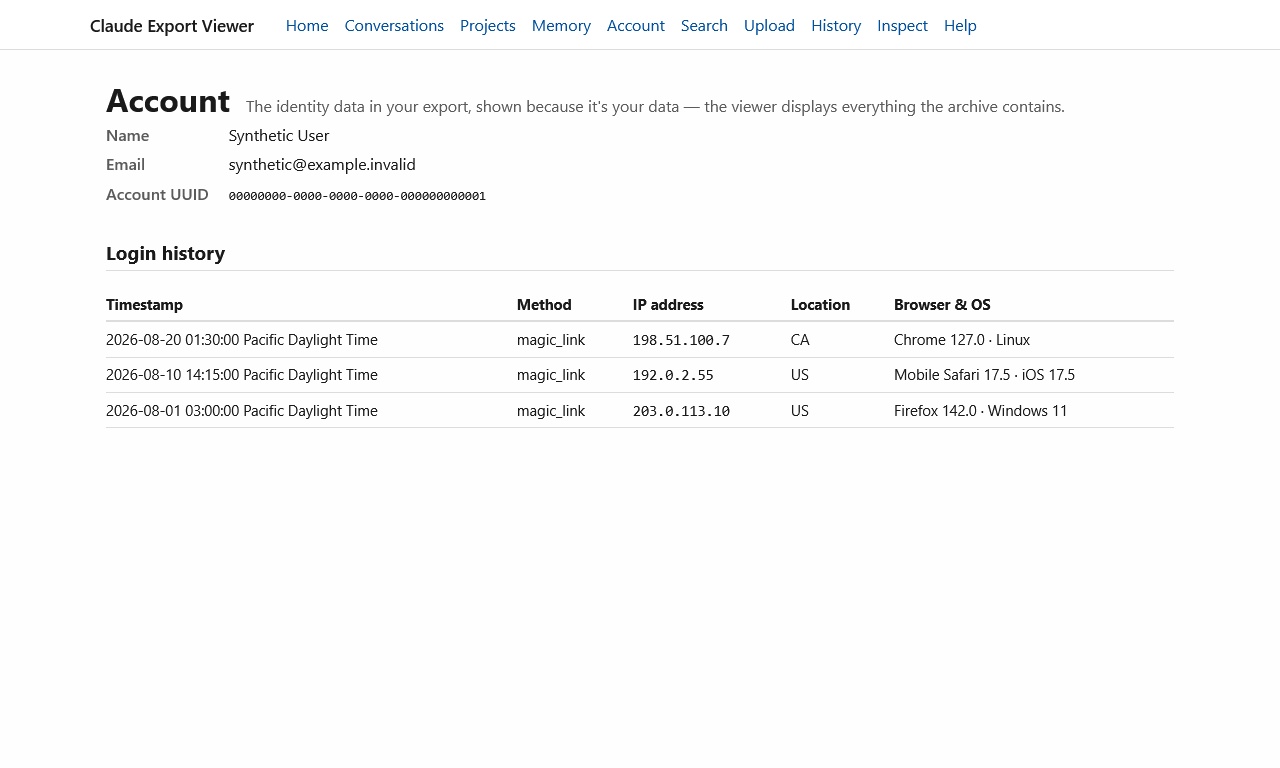
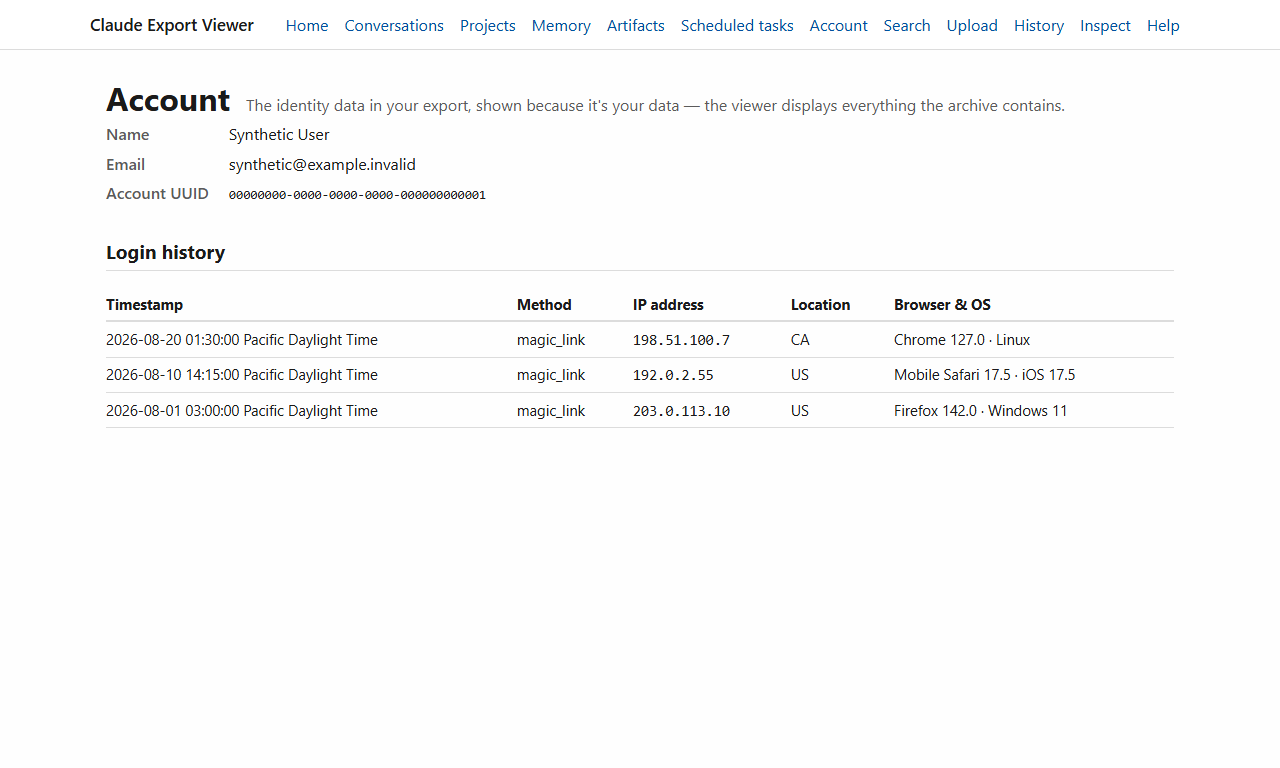
v1.4.0 Session U phase 6 (docs): Help sections for published artifacts and scheduled tasks, README bullets and captions, D4 retired, ten screenshots from the synthetic fixture, v1.4.0 release notes, plan close-out, fold layout fix

diff --git a/static/style.css b/static/style.css
@@ -979,7 +979,8 @@ details.collapsible > summary {
 /* display_content bodies inside tool cards (v1.3.0, record §9.5): the
    card's flex row wraps, so the body takes a full-width row beneath the
    name line. Prose bodies return to the app font; code stays monospace. */
-.block-card .display-content {
+.block-card .display-content,
+.block-card .display-content-fold {
   flex-basis: 100%;
   min-width: 0;
 }
@@ -1755,9 +1756,8 @@ details.collapsible > summary {
   padding-left: 1.4rem;
 }
 
-/* v1.3.1 page elements: the D4 note on Home, the legacy memory group (D5)
-   and its control, the manifest links page (D7), the document card (D6). */
-.kept-categories-note,
+/* v1.3.1 page elements: the legacy memory group (D5) and its control, the
+   manifest links page (D7), the document card (D6). */
 .memory-legacy-note,
 .manifest-created {
   color: var(--muted);

diff --git a/templates/index.html b/templates/index.html
@@ -20,10 +20,6 @@
       <dt>Orphan project memories</dt><dd>{{ orphan_memories }}</dd>
     {% endif %}
   </dl>
-  {% if kept_categories %}
-    {# Copy D4 (v1.3.1): the later categories are kept but not displayed. #}
-    <p class="kept-categories-note">Current exports can also include files for published artifacts, artifact data, and Claude Code scheduled tasks. This version accepts them with the rest of your export and keeps them, but doesn't display them yet.</p>
-  {% endif %}
 </section>
 
 <section class="memory">

diff --git a/tests/test_help.py b/tests/test_help.py
@@ -143,14 +143,24 @@ def test_every_source_heading_has_a_resolving_anchor(help_body: str) -> None:
 # ---------------------------------------------------------------------------
 
 
-def test_internal_links_resolve(client, help_body: str) -> None:
+def test_internal_links_resolve(client, help_body: str, tmp_path: Path) -> None:
     hrefs = set(re.findall(r'href="(/[^"]*)"', help_body))
     assert any(h.startswith("/conversations?tag=untagged") for h in hrefs)
     assert "/history" in hrefs
     assert "/search" in hrefs
-    for href in sorted(hrefs):
+    # The category pages answer only when the viewed export has the category
+    # (export-categories §6.2, the Account rule); they're checked against the
+    # current-format fixture, which has both.
+    category_pages = {"/artifacts", "/scheduled-tasks"}
+    assert category_pages <= hrefs
+    for href in sorted(hrefs - category_pages):
         r = client.get(href)
         assert r.status_code < 400, f"{href} returned {r.status_code}"
+    current = create_app(
+        Path(__file__).resolve().parent / "fixtures" / "current", db_path=tmp_path / "c.sqlite"
+    ).test_client()
+    for href in sorted(category_pages):
+        assert current.get(href).status_code == 200, href
 
 
 # ---------------------------------------------------------------------------
@@ -331,7 +341,8 @@ def test_readme_getting_your_export_carries_d7() -> None:
 
 def test_help_carries_v131_copy() -> None:
     src = _help_source()
-    assert D4_HELP in src
+    # D4 was v1.3.1-only: removed in v1.4.0 for the categories it displays.
+    assert D4_HELP not in src
     assert D5_HELP_MEMORY in src
     assert D5_HELP_APPEARANCE in src
     assert "[Download links](/manifest)" in src

diff --git a/tests/test_export_categories_v131.py b/tests/test_export_categories_v131.py
@@ -295,11 +295,12 @@ def test_new_categories_alone_count_against_the_core_four(app_factory, fixtures_
 # ---------------------------------------------------------------------------
 
 
-def test_home_says_later_categories_are_kept(app_factory, full_set) -> None:
+def test_kept_not_displayed_line_retired_in_v140(app_factory, full_set) -> None:
+    """D4 shipped in v1.3.1 and is removed in v1.4.0, which displays all three
+    categories (record appendix D4)."""
     client = app_factory().test_client()
-    assert D4 not in _text(client.get("/").get_data(as_text=True))  # legacy fixture
     assert _post_files(client, "/upload", full_set).status_code == 302
-    assert D4 in _text(client.get("/").get_data(as_text=True))
+    assert D4 not in _text(client.get("/").get_data(as_text=True))
 
 
 # ---------------------------------------------------------------------------

diff --git a/viewer/routes.py b/viewer/routes.py
@@ -280,8 +280,6 @@ def index() -> str:
         project_memories=project_memories,
         orphan_memories=len(export.orphan_project_memories),
         global_memory_block=global_memory_block,
-        # D4 (v1.3.1): said when the loaded set carries any later category.
-        kept_categories=any(c in export.categories for c in LATER_CATEGORIES),
     )
 
 

diff --git a/docs/plan.md b/docs/plan.md
@@ -639,10 +639,13 @@ format (manifest + four category zips replacing the single zip) and the memory s
     Release; release audit — `pip-audit` in a scratch venv, the arc-wide
     stranger-read sweep, and the R Phase 2 eight-claim table fully closed.
 
-### v1.3.1 and v1.4.0 — export categories (Session U, in progress)
+### v1.3.1 and v1.4.0 — export categories (Session U; shipped on `session-u`, tags at the operator's review)
 
 Design record: `docs/export-categories-design.md` (ratified 2026-10-27); brief and
-per-phase reports in `docs/briefs/` (`v1.4.0-session-u-*`). Locked as each phase lands:
+per-phase reports in `docs/briefs/` (`v1.4.0-session-u-*`); release notes
+`docs/briefs/v1.3.1-release-notes.md` and `docs/briefs/v1.4.0-release-notes.md` for the
+operator's GitHub Releases. Both versions are bumped on the branch (`v1.3.1:` and `v1.4.0:`
+commits); `main` and the tags follow the phase 8 review. Locked decisions:
 
 - **The real export leaves the tree** (record D12, phase 2). The startup load order is
   uploaded export → built-in fixture; the `data/` development copy and its code path are
@@ -698,6 +701,12 @@ per-phase reports in `docs/briefs/` (`v1.4.0-session-u-*`). Locked as each phase
   and the recorded MIME type; files served by lookup in the recorded list only; fonts carry
   `Access-Control-Allow-Origin: null` (flagged for review); the preview prints as its
   heading plus `Preview not printed.`.
+- **v1.4.0 docs and close** (phase 6). Locked: D4 retired (all three categories are now
+  displayed); Help gains `Published artifacts` and `Scheduled tasks` (D9's intro sentence
+  verbatim, the rest drafted for review); README feature bullets for both; all seven
+  screenshots retaken (the nav changed on every page) and `artifacts.png`,
+  `artifact-detail.png`, `scheduled-tasks.png` added, from the synthetic fixture via an
+  isolated instance, footer and theme control hidden at capture.
 
 ### Later (unscheduled, non-blocking)
 
@@ -715,14 +724,19 @@ per-phase reports in `docs/briefs/` (`v1.4.0-session-u-*`). Locked as each phase
   2026-09-01 observed plain-text links in replies — the deferred behaviour, not a
   defect), **inline citation anchoring**, **bespoke `rich_content`/`json_block`
   rendering** (plus knowledge `links` rendering), and **structured frontmatter
-  presentation for memory files**; plus whatever lived use surfaces.
+  presentation for memory files**; plus whatever lived use surfaces. (v1.3.1 shipped the
+  A5 size-collapse and both launcher-polish items, which were queued separately; none of
+  the toggles above shipped, and they stay queued.)
 - Embedded-HTML display policy — the viewer and print strip disallowed HTML tags from
   displayed text (a literal `<details>` typed in a message vanishes from display), losing
   characters the author wrote; evaluate escape-to-visible-text as the display default, and
   separately whether closed, well-formed details blocks deserve real collapsible
   rendering — a sanitiser-allowlist decision requiring its own written brief.
 
-### 1.4+ (unscheduled)
+### 1.5+ (unscheduled)
+
+Renamed from "1.4+" when v1.4.0 took the export-categories scope (record §1); the items
+are unchanged except the extraction item's note.
 
 Order between the two larger items below is undecided until development resumes; the
 current lean is portable tag state first.
@@ -731,7 +745,9 @@ current lean is portable tag state first.
   create artifacts of every type — edit histories, rewrites, branch divergence — export, and
   inspect the designed corpus before designing the feature; combine with the file-tools scan
   (`create_file`/`str_replace` bodies) since the two may be one "recover authored content"
-  feature. Do not build against the current export's biased sample.
+  feature. Do not build against the current export's biased sample. *(Now partly
+  superseded by `frames`: published artifacts display since v1.4.0. Reconstructing
+  tool-call artifacts is re-scoped in its own pass — export-categories record §11.)*
 - Portable, mergeable tag state (full profile system). The tag database is the app's only
   irreplaceable state; the export is re-downloadable, the triage work is not. The hard part
   is reconciliation semantics for one user across multiple machines (last-write-wins,

diff --git a/viewer/content/help.md b/viewer/content/help.md
@@ -16,8 +16,6 @@ The export contains your conversations (including messages on alternate branches
 
 Choose your export files and upload them together — every ZIP from a current export plus, optionally, the manifest, or a single legacy ZIP. You can load a partial set; a banner will tell you what's missing and which features are affected. A file the viewer doesn't recognise is skipped with a notice, and the rest of your export loads.
 
-Current exports can also include files for published artifacts, artifact data, and Claude Code scheduled tasks. This version accepts them with the rest of your export and keeps them, but doesn't display them yet.
-
 Your manifest file contains live, signed download links to your export. Treat it like the export itself: don't share it, post it, or commit it anywhere public.
 
 Uploads are capped at 200 MB per file — more than any export file seen so far. If yours ever exceeds it, set the VIEWER_MAX_UPLOAD_MB environment variable before launching to raise the cap.
@@ -117,9 +115,21 @@ When your export includes memory files, the older memory summary is shown last, 
 
 Shown whenever the export includes your account file — the [Account](/account) page displays the identity data in your archive (name, email, and account ID) and, for current exports, your **login history**: a table of recorded logins, newest first, with the timestamp (in your local time), method, IP address, location, and browser and operating system. Single-ZIP exports include login history only when the archive carries it (older ones don't); when it's absent, the page says so. It's your data — the viewer shows everything the archive contains.
 
+## Published artifacts
+
+If your export includes published artifacts, the [Artifacts](/artifacts) page lists each one with its type, its number of versions, and when it was last updated. An artifact's page shows its description and its versions — the active version is marked and opens by default — and then the content itself: a preview for web-page artifacts, or the text for document artifacts.
+
+The preview is a safe copy of the page: the viewer doesn't run its scripts and doesn't load anything from the web, so an interactive artifact may look incomplete. The written content of a script-driven artifact is listed under **Content files**, where each file expands in place. **View source** shows the page's HTML, and **Download** saves the version exactly as it is in your export.
+
+Below the content come the version's files, each checked against the export's own record; any comments on a document; any data the artifact saved, grouped by collection; and the conversations that mention it. In those conversations, the tool card links back with **Open in Artifacts**. Saved data whose artifact isn't in your export is listed at the end of the Artifacts page.
+
+## Scheduled tasks
+
+Claude Code scheduled tasks (called routines in the export files) are listed with their prompts, schedules, and run history. The [Scheduled tasks](/scheduled-tasks) page shows each task's schedule, whether it's enabled, when it was created, and when it last ran; expand **Prompt** to read what it asks Claude to do. The export doesn't include the sessions themselves, so each run shows its session ID as text. Runs for tasks that aren't in your export are kept in their own section.
+
 ## Search
 
-Search runs across everything indexed: conversation titles and summaries, every message (including alternate branches), project names and descriptions, knowledge documents, and all memory — the conversation memory, memory files, and project memories.
+Search runs across everything indexed: conversation titles and summaries, every message (including alternate branches), project names and descriptions, knowledge documents, all memory — the conversation memory, memory files, and project memories — and published artifacts and scheduled tasks.
 
 Just type naturally — punctuation, apostrophes, and hyphens are handled for you. For exact phrases, prefix matching, proximity, and boolean operators, open the **Search syntax guide** on the [search page](/search) itself.
 

diff --git a/README.md b/README.md
@@ -40,6 +40,18 @@ Reading a conversation in dark mode:
 
 ![A conversation rendered in the dark theme, with a collapsed thinking block](docs/images/conversation-dark.png)
 
+The Artifacts page, listing published artifacts:
+
+![The Artifacts page: a table of published artifacts with their type, version count, and last update](docs/images/artifacts.png)
+
+An artifact's page, with its version list, the sandboxed preview, and its page source:
+
+![An artifact's page showing its versions with the active one marked, a scripts notice, and the preview](docs/images/artifact-detail.png)
+
+The Scheduled tasks page, with one task's prompt expanded:
+
+![The Scheduled tasks page: a table of tasks with their schedules, one prompt expanded, and the run history](docs/images/scheduled-tasks.png)
+
 ## Features
 
 - **Current and legacy export formats.** Loads the current multi-file export — a
@@ -58,11 +70,18 @@ Reading a conversation in dark mode:
   range selection is built in.
 - **Memory rendering.** Claude's conversation memory, its memory files (grouped by
   folder, metadata headers shown verbatim), and per-project memories, all with
-  collapsible sections.
+  collapsible sections. Once an export has memory files, the older summary is marked as no
+  longer updated, and can be hidden.
 - **Account page.** Your account details and, whenever the export includes it, your login
   history — shown because it's your data.
+- **Published artifacts.** Every artifact you published, with its versions, a safe preview
+  (no scripts, nothing loaded from the web), its files, comments, and saved data — and links
+  between each artifact and the conversations that published it.
+- **Scheduled tasks.** Claude Code scheduled tasks with their prompts, schedules, and run
+  history.
 - **Full-text search** (SQLite FTS5) across messages — including alternate branches — titles,
-  summaries, projects, knowledge documents, and memory. Natural-language queries work as-is; a
+  summaries, projects, knowledge documents, memory, published artifacts, and scheduled
+  tasks. Natural-language queries work as-is; a
   built-in syntax guide covers phrases, prefixes, proximity, and boolean operators. Results
   link to the exact message, on the right branch.
 - **Upload history.** Every export load is recorded — when, the filename, a content

diff --git a/docs/briefs/v1.4.0-release-notes.md b/docs/briefs/v1.4.0-release-notes.md
@@ -1,0 +1,7 @@
+## v1.4.0 — published artifacts and scheduled tasks
+
+- New Artifacts page: every published artifact with its versions, a safe preview (no
+scripts, nothing loaded from the web), its files, comments, and saved data.
+- Conversations link to the artifacts they published.
+- New Scheduled tasks page for Claude Code routines and their run history.
+- Artifacts and scheduled tasks are searchable.
